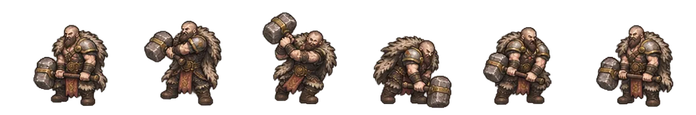
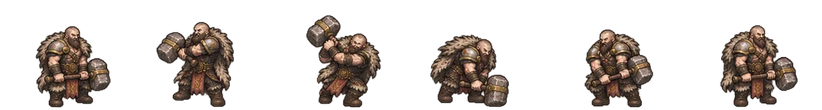
v0.5 : redécoupe de Hrolf
Images alignées sur les pieds (le marteau ignoré), toutes tournées vers
la droite (la planche mélange les sens), pas de marche liés à la
distance parcourue. Outil tools/decoupe_hrolf.py.

Claude-Session: https://claude.ai/code/session_01Qu7CnqzYV5d2juEQXEXr3W

diff --git a/index.html b/index.html
@@ -158,7 +158,7 @@ body.edition #bar,body.edition #frame,body.edition #journal{display:none}
 <div class="dlg" id="fin"><div class="win panel"><h2 style="justify-content:center" id="finT"></h2><p id="finP"></p><button class="btn main" id="bRe">Recommencer</button></div></div>
 <script>
 'use strict';
-const VERSION='0.4';
+const VERSION='0.5';
 document.title='Amertüme ISO v'+VERSION;
 
 /* ================= Règles d'Amertüme (moteur d'Amertüme Online, adapté au temps réel) =================
@@ -268,8 +268,8 @@ function ligneLibre(x0,y0,x1,y1){const n=Math.ceil(Math.hypot(x1-x0,y1-y0)/8);fo
 
 /* ================= Images ================= */
 const IMG={},img=s=>{if(!IMG[s]){const i=new Image();i.src=s;IMG[s]=i}return IMG[s]},ok=i=>i&&i.complete&&i.naturalWidth;
-// Hrolf : planche 6 × 7 découpée en bandes de 6 images ; il regarde à gauche sur la planche.
-const HANIM={n:6,pieds:.965,poses:['idle','walk','atk','furie','cri','sol','mort']};
+// Hrolf : planche 6 × 7 découpée en bandes de 6 images ; découpée par tools/decoupe_hrolf.py : images alignées sur les pieds, toutes tournées vers la droite.
+const HANIM={n:6,pieds:.968,poses:['idle','walk','atk','furie','cri','sol','mort']};
 img(CARTE.fond);for(const p of HANIM.poses)img('img/u/hrolf_'+p+'.webp');
 for(const s in ANIM)for(const p of ANIM[s].poses)img('img/m/'+s+'_'+p+'.webp');
 for(const s of Object.keys(MS).filter(s=>!ANIM[s]))for(const p of ['w1','w2','atk','dead']){img('img/m/'+s+'_'+p+'.webp');if(p!=='dead')img('img/m/'+s+'_'+p+'_rim.webp')}
@@ -368,7 +368,7 @@ function step(dt){S.t+=dt;
   if(hero.cible&&hero.cible.pv<=0)hero.cible=null;
   if(hero.cible){if(contact(hero,hero.cible))hero.path=[];else if(!hero.path.length||S.t>(hero.repath||0)){hero.path=chemin(hero.x,hero.y,hero.cible.x,hero.cible.y);hero.repath=S.t+.3}}
   if(hero.path.length){const p=hero.path[0],dx=p.x-hero.x,dy=p.y-hero.y,d=Math.hypot(dx,dy),sp=78*dt;
-   if(Math.abs(dx)>1)hero.face=dx>0?1:-1;if(d<=sp){hero.x=p.x;hero.y=p.y;hero.path.shift()}else{hero.x+=dx/d*sp;hero.y+=dy/d*sp}hero.walk+=dt*10}
+   if(Math.abs(dx)>1)hero.face=dx>0?1:-1;if(d<=sp){hero.x=p.x;hero.y=p.y;hero.path.shift()}else{hero.x+=dx/d*sp;hero.y+=dy/d*sp}hero.walk+=Math.min(d,sp)}
   else{hero.walk=0;if(S.t>=hero.prochain){const c=hero.cible&&contact(hero,hero.cible)?hero.cible:null;if(c||vivants().some(m=>contact(hero,m)&&m.aggro))attaqueHeros(c)}}}
  // Adversaires
  let enCombat=0;
@@ -424,9 +424,9 @@ function drawHero(t){const u=hero;ombre(u.x,u.y+1,13,5,.45);anneau(u.x,u.y,15,`r
  // Une animation jouée (attaque, Frappe Furieuse, Cri, au sol, mort) passe avant la marche et le repos ; la mort et le Coma restent couchés.
  const a=u.anim,k=a?(S.t-a.t)/a.dur:1;let pose,f;
  if(u.mort){pose='mort';f=Math.floor(Math.min(.99,k)*6)}else if(u.coma){pose='sol';f=3}
- else if(a&&k<1){pose=a.pose;f=Math.floor(k*6)}else if(u.walk>0){pose='walk';f=Math.floor(u.walk*.8)%6}else{pose='idle';f=Math.floor(t*6)%6}
+ else if(a&&k<1){pose=a.pose;f=Math.floor(k*6)}else if(u.walk>0){pose='walk';f=Math.floor(u.walk/6.5)%6}else{pose='idle';f=Math.floor(t*6)%6}
  const im=IMG['img/u/hrolf_'+pose+'.webp'];if(!ok(im))return;const fw=im.naturalWidth/6,fh=im.naturalHeight,w=fw/2,h=fh/2;
- g.save();g.translate(u.x,u.y);g.scale(-u.face,1);if(u.coma&&!u.mort)g.filter='grayscale(.6) brightness(.8)';g.drawImage(im,f*fw,0,fw,fh,-w/2,-h*HANIM.pieds,w,h);g.restore()}
+ g.save();g.translate(u.x,u.y);g.scale(u.face,1);if(u.coma&&!u.mort)g.filter='grayscale(.6) brightness(.8)';g.drawImage(im,f*fw,0,fw,fh,-w/2,-h*HANIM.pieds,w,h);g.restore()}
 function drawMon(m,t,hov){const sp=m.d.spr,pose=m.atk>0?'atk':m.walk>0&&Math.floor(m.walk/2.4)%2?'w2':'w1',rim=IMG['img/m/'+sp+'_'+pose+'_rim.webp'],im0=IMG['img/m/'+sp+'_'+pose+'.webp'],useR=ok(rim),im=useR?rim:im0;
  ombre(m.x,m.y+1,m.w*.34+3,m.w*.11+2.5,.45);if(hov||m===hero.cible)anneau(m.x,m.y,m.w*.42+6,'#e2565f',2);else if(m.d.boss)anneau(m.x,m.y,m.w*.42+6,'rgba(226,86,95,.45)',2);
  if(ANIM[sp])return drawAnim(m,t,hov);
@@ -579,8 +579,8 @@ $('rTour').oninput=e=>{REG.tour=+e.target.value;TOUR=REG.tour;majReg()};
 majReg();
 // Portrait : la tête du sprite du Destructeur.
 function portrait(){const im=IMG['img/u/hrolf_idle.webp'];if(!ok(im))return setTimeout(portrait,100);const p=$('portrait').getContext('2d'),fw=im.naturalWidth/6;
- // Tête dans l'image 0 du repos : centre x ≈ 0,65, haut à 0,2 de l'image.
- p.imageSmoothingQuality='high';p.drawImage(im,fw*.46,im.naturalHeight*.19,fw*.4,fw*.4,0,0,152,152)}
+ // Tête dans l'image 0 du repos : centre x ≈ 0,48, haut à 0,22 de l'image.
+ p.imageSmoothingQuality='high';p.drawImage(im,fw*.33,im.naturalHeight*.19,fw*.3,fw*.3,0,0,152,152)}
 
 let last=performance.now(),acc=0;
 function loop(now){const dt=Math.min(.05,(now-last)/1000);last=now;
@@ -589,7 +589,7 @@ function loop(now){const dt=Math.min(.05,(now-last)/1000);last=now;
  if(!paused&&Math.floor(S.t*4)!==Math.floor((S.t-dt)*4))majTout();requestAnimationFrame(loop)}
 nouveau();portrait();requestAnimationFrame(loop);
 // Accroches de test (tools/smoke.js)
-window.__test={get S(){return S},get hero(){return hero},step,ordre:(x,y)=>{hero.cible=null;hero.path=chemin(hero.x,hero.y,x,y)},cible:m=>{hero.cible=m},frappeFurieuse,criDeGuerre,reposCourt,potion,lancer,resoudre,pause:v=>{paused=v},entreEdit,get WALK(){return WALK}};
+window.__test={get S(){return S},get hero(){return hero},step,ordre:(x,y)=>{hero.cible=null;hero.path=chemin(hero.x,hero.y,x,y)},cible:m=>{hero.cible=m},frappeFurieuse,criDeGuerre,reposCourt,potion,lancer,resoudre,pause:v=>{paused=v},get cam(){return cam},entreEdit,get WALK(){return WALK}};
 window.addEventListener('error',e=>{(window.__errs=window.__errs||[]).push(e.message)});
 </script>
 </body>

diff --git a/tools/decoupe_hrolf.py b/tools/decoupe_hrolf.py
@@ -1,0 +1,46 @@
+# Découpe de la planche de Hrolf (6 × 7) : chaque image alignée sur ses pieds, toutes tournées vers la droite.
+import sys, collections, colorsys
+from PIL import Image, ImageFilter, ImageOps, ImageDraw
+src, dst, dbg = sys.argv[1], sys.argv[2], sys.argv[3]
+im=Image.open(src).convert('RGBA');W,H=im.size;C,R=6,7;cw,ch=W/C,H/R;K=0.58
+NOMS=['idle','walk','atk','furie','cri','sol','mort']
+MIROIR={0:{0,1,2,3,4,5},2:{0,4,5},3:{0,4,5},4:{5},5:{5}}  # images qui regardent à gauche sur la planche
+m=im.getchannel('A').point(lambda v:255 if v>20 else 0).filter(ImageFilter.MaxFilter(3));px=m.load();vu=set();cells=collections.defaultdict(list)
+for y in range(H):
+  for x in range(W):
+    if px[x,y] and (x,y) not in vu:
+      q=collections.deque([(x,y)]);vu.add((x,y));pts=[]
+      while q:
+        u,v=q.popleft();pts.append((u,v))
+        for a,b in ((u+1,v),(u-1,v),(u,v+1),(u,v-1)):
+          if 0<=a<W and 0<=b<H and px[a,b] and (a,b) not in vu: vu.add((a,b));q.append((a,b))
+      if len(pts)>=15:
+        cx=sum(u for u,v in pts)/len(pts);cy=sum(v for u,v in pts)/len(pts);cells[(int(cy//ch),int(cx//cw))]+=pts
+S=im.load()
+def gris(p):  # pierre du marteau : peu saturée et claire
+  h,s,v=colorsys.rgb_to_hsv(p[0]/255,p[1]/255,p[2]/255);return s<.18 and v>.33
+frames={}
+for (r,c),pts in cells.items():
+  x0=min(u for u,v in pts);y0=min(v for u,v in pts);x1=max(u for u,v in pts);y1=max(v for u,v in pts)
+  f=Image.new('RGBA',(x1-x0+1,y1-y0+1));fp=f.load()
+  for u,v in pts: fp[u-x0,v-y0]=S[u,v]
+  if c in MIROIR.get(r,()): f=ImageOps.mirror(f)
+  frames[(r,c)]=f
+def ancre(f):
+  a=f.load();w,h=f.size;ok=[(x,y) for y in range(h) for x in range(w) if a[x,y][3]>60 and not gris(a[x,y])]
+  bas=max(y for x,y in ok);bande=[x for x,y in ok if y>=bas-h*.12 and y>=h*.5] or [x for x,y in ok]
+  return sum(bande)/len(bande),bas
+A={k:ancre(f) for k,f in frames.items()}
+L=max(ax for (ax,ay) in A.values());Rt=max(f.size[0]-A[k][0] for k,f in frames.items());Hh=max(A[k][1] for k in frames);Bb=max(f.size[1]-A[k][1] for k,f in frames.items())
+half=int(max(L,Rt))+2;FW,FH=2*half,int(Hh+Bb)+4;base=int(Hh)+1
+ow,oh=round(FW*K),round(FH*K);print('image',ow,oh,'pieds',round(base/FH,3))
+dbgim=Image.new('RGBA',(ow*6,oh*7),(60,70,60,255));d=ImageDraw.Draw(dbgim)
+for r,n in enumerate(NOMS):
+  strip=Image.new('RGBA',(ow*6,oh))
+  for c in range(6):
+    fr=Image.new('RGBA',(FW,FH));ax,ay=A[(r,c)];fr.alpha_composite(frames[(r,c)],(int(round(half-ax)),int(round(base-ay))))
+    t=fr.resize((ow,oh),Image.LANCZOS);strip.paste(t,(c*ow,0));dbgim.alpha_composite(t,(c*ow,r*oh))
+  strip.save(f'{dst}/hrolf_{n}.webp',lossless=True)
+for c in range(6): d.line([(c*ow+ow/2,0),(c*ow+ow/2,oh*7)],fill=(255,0,0,160))
+for r in range(7): d.line([(0,r*oh+base*K),(ow*6,r*oh+base*K)],fill=(255,0,0,160))
+dbgim.resize((ow*12,oh*14),Image.NEAREST).save(dbg)
